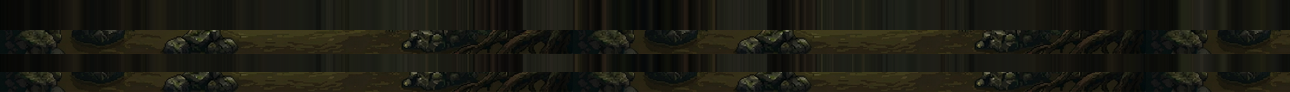
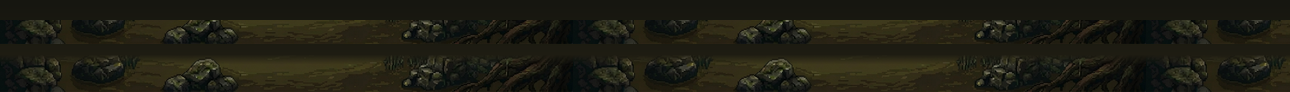
Build clean continuous combat lanes from pack sources

diff --git a/index.html b/index.html
@@ -10,7 +10,7 @@
   <link rel="preconnect" href="https://fonts.googleapis.com">
   <link rel="preconnect" href="https://fonts.gstatic.com" crossorigin>
   <link href="https://fonts.googleapis.com/css2?family=Cinzel:wght@500;700&display=swap" rel="stylesheet">
-  <link rel="stylesheet" href="style.css?v=131">
+  <link rel="stylesheet" href="style.css?v=132">
 </head>
 <body>
 
@@ -253,16 +253,16 @@
 
   </main>
 
-  <footer class="footer"><p>Dungeon Loop · Build <span class="footer-build">sidescroller-v2-131</span> · Offline-fähig</p></footer>
-  <script src="asset-pack.js?v=131"></script>
-  <script src="world-config.js?v=131"></script>
-  <script src="world-render.js?v=131"></script>
-  <script src="visual-enemies.js?v=131"></script>
-  <script src="visual-fx.js?v=131"></script>
-  <script src="pack-fx.js?v=131"></script>
-  <script src="visual-sprites.js?v=131"></script>
-  <script src="hero-render.js?v=131"></script>
-  <script src="abilities.js?v=131"></script>
-  <script src="script.js?v=131"></script>
+  <footer class="footer"><p>Dungeon Loop · Build <span class="footer-build">sidescroller-v2-132</span> · Offline-fähig</p></footer>
+  <script src="asset-pack.js?v=132"></script>
+  <script src="world-config.js?v=132"></script>
+  <script src="world-render.js?v=132"></script>
+  <script src="visual-enemies.js?v=132"></script>
+  <script src="visual-fx.js?v=132"></script>
+  <script src="pack-fx.js?v=132"></script>
+  <script src="visual-sprites.js?v=132"></script>
+  <script src="hero-render.js?v=132"></script>
+  <script src="abilities.js?v=132"></script>
+  <script src="script.js?v=132"></script>
 </body>
 </html>

diff --git a/script.js b/script.js
@@ -4,7 +4,7 @@
    A/D = Vor/Zurück | P = Pause
    ============================================ */
 
-const BUILD_ID = "sidescroller-v2-131";
+const BUILD_ID = "sidescroller-v2-132";
 const GAME_VERSION = 2;
 const WORLD_LAYOUT_VERSION = 2;
 

diff --git a/asset-pack.js b/asset-pack.js
@@ -10,7 +10,7 @@
     worldReady: Object.create(null),
     worldLoading: Object.create(null),
     base: "assets/pack/",
-    version: "131",
+    version: "132",
 
     loadImage(path) {
       return new Promise((resolve) => {

diff --git a/tools/build_world_layers.py b/tools/build_world_layers.py
@@ -1,5 +1,11 @@
 #!/usr/bin/env python3
-"""Build seamless 2-layer strips from character-free pack layers only."""
+"""Build clean two-layer worlds from the character-free pack source strips.
+
+The previews remain the colour and composition reference, but contain
+embedded sample armies in several worlds.  Runtime assets are therefore built
+only from `bg.png`, `path.png`, and `foreground.png`: background first, then a
+single continuous combat lane.
+"""
 from __future__ import annotations
 
 from pathlib import Path
@@ -12,103 +18,72 @@ WORLDS = ("forest", "swamp", "frost", "fire", "ruins")
 CANVAS_W = 1290
 SCENE_H = 268
 LANE_H = 92
-PATH_Y = 30
-FG_SKIP_TOP = 18  # foreground.png hat oft eingebackene Füße oben
-
-
 def load(path: Path) -> Image.Image | None:
     return Image.open(path).convert("RGBA") if path.exists() else None
 
 
-def tile_width(img: Image.Image, width: int) -> Image.Image:
-    if img.width >= width:
-        return img.crop((0, 0, width, img.height))
-    out = Image.new("RGBA", (width, img.height))
-    x = 0
-    while x < width:
-        out.paste(img, (x, 0), img)
-        x += img.width
+def opaque(img: Image.Image) -> Image.Image:
+    """Keep source RGB where the pack uses a transparent fade.
+
+    The old builder preserved that alpha and consequently exposed the black
+    canvas beneath the lower background.  Generated scene/lane layers are
+    deliberately opaque, so they always cover the complete camera area.
+    """
+    out = img.convert("RGBA")
+    out.putalpha(255)
     return out
 
 
-def build_scene(world_dir: Path) -> Image.Image:
+def visible_colour(*images: Image.Image) -> tuple[int, int, int]:
+    """Return a robust ground colour from opaque source pixels only."""
+    pixels = []
+    for image in images:
+        data = np.asarray(image)
+        visible = data[data[:, :, 3] > 180, :3]
+        if visible.size:
+            pixels.append(visible)
+    if not pixels:
+        return (36, 31, 22)
+    return tuple(np.median(np.concatenate(pixels, axis=0), axis=0).astype(int))
+
+
+def lane_base(top: tuple[int, int, int], bottom: tuple[int, int, int]) -> Image.Image:
+    """Make an opaque, texture-ready path base with no transparent gaps."""
+    data = np.zeros((LANE_H, CANVAS_W, 4), dtype=np.uint8)
+    for y in range(LANE_H):
+        t = y / max(1, LANE_H - 1)
+        data[y, :, :3] = np.array(top) * (1 - t) + np.array(bottom) * t
+    data[:, :, 3] = 255
+    return Image.fromarray(data, "RGBA")
+
+
+def build_world_layers(world_dir: Path) -> tuple[Image.Image, Image.Image]:
     src = world_dir / "_build"
     bg = load(src / "bg.png")
-    if not bg:
-        raise FileNotFoundError(f"bg.png fehlt in {src}")
-    bg = tile_width(bg, CANVAS_W)
-    scaled = bg.resize((CANVAS_W, SCENE_H), Image.NEAREST)
-    return scaled
-
-
-def build_lane(world_dir: Path, scene: Image.Image) -> Image.Image:
-    src = world_dir / "_build"
     path = load(src / "path.png")
-    fg = load(src / "foreground.png")
+    foreground = load(src / "foreground.png")
+    if not bg or not path or not foreground:
+        raise FileNotFoundError(f"saubere Weltquellen fehlen in {src}")
 
-    scene_arr = np.array(scene)
-    arr = np.zeros((LANE_H, CANVAS_W, 4), dtype=np.uint8)
+    # Background: one opaque, character-free panorama — no preview patches.
+    ground_colour = visible_colour(path, foreground)
+    scene = opaque(bg).resize((CANVAS_W, SCENE_H), Image.Resampling.NEAREST)
 
-    # Untergrund aus letzter Scene-Zeile
-    base = scene_arr[-1].astype(np.float32)
-    for y in range(LANE_H):
-        for x in range(CANVAS_W):
-            arr[y, x, :3] = base[x, :3].astype(np.uint8)
-            arr[y, x, 3] = 255
-
-    if path:
-        path = tile_width(path, CANVAS_W)
-        pa = np.array(path)
-        ph, pw = pa.shape[:2]
-        for y in range(ph):
-            ty = PATH_Y + y
-            if ty >= LANE_H:
-                break
-            for x in range(CANVAS_W):
-                px = pa[y, x % pw]
-                a = px[3] / 255.0
-                if a < 0.05:
-                    continue
-                arr[ty, x, :3] = (
-                    arr[ty, x, :3].astype(np.float32) * (1 - a) + px[:3].astype(np.float32) * a
-                ).astype(np.uint8)
-
-    if fg:
-        fg = tile_width(fg, CANVAS_W)
-        fa = np.array(fg)
-        fh, fw = fa.shape[:2]
-        y0 = min(FG_SKIP_TOP, max(0, fh - 1))
-        crop = fa[y0:, :, :]
-        ch = crop.shape[0]
-        fy = LANE_H - ch
-        for y in range(ch):
-            ty = fy + y
-            if ty < 0 or ty >= LANE_H:
-                continue
-            for x in range(CANVAS_W):
-                px = crop[y, x % fw]
-                a = px[3] / 255.0
-                if a < 0.05:
-                    continue
-                arr[ty, x, :3] = (
-                    arr[ty, x, :3].astype(np.float32) * (1 - a) + px[:3].astype(np.float32) * a
-                ).astype(np.uint8)
-
-    # Weicher Übergang Scene → Lane (obere 8 px)
-    for y in range(8):
-        t = y / 7
-        for x in range(CANVAS_W):
-            arr[y, x, :3] = (
-                scene_arr[-1, x, :3].astype(np.float32) * (1 - t) + arr[y, x, :3].astype(np.float32) * t
-            ).astype(np.uint8)
-
-    return Image.fromarray(arr)
+    # Combat lane: an opaque terrain-coloured base prevents transparent
+    # black gaps.  The native-width path strip defines the actual ground line
+    # and the foreground strip joins its lower edge to the surrounding world.
+    # Native sizes are retained: stretching the 24px source path produced the
+    # vertical barcode artefact visible in the previous build.
+    top_colour = tuple(np.asarray(scene)[-1, :, :3].mean(axis=0).astype(int))
+    lane = lane_base(top_colour, ground_colour)
+    lane.alpha_composite(path, (0, 20))
+    lane.alpha_composite(foreground, (0, LANE_H - foreground.height))
+    return scene, lane
 
 
 def process_world(theme: str) -> None:
     world_dir = ROOT / "assets" / "pack" / "worlds" / theme
-    scene = build_scene(world_dir)
-    lane = build_lane(world_dir, scene)
+    scene, lane = build_world_layers(world_dir)
     scene.save(world_dir / "scene.png", optimize=True)
     lane.save(world_dir / "lane.png", optimize=True)
     print(theme, scene.size, lane.size)
